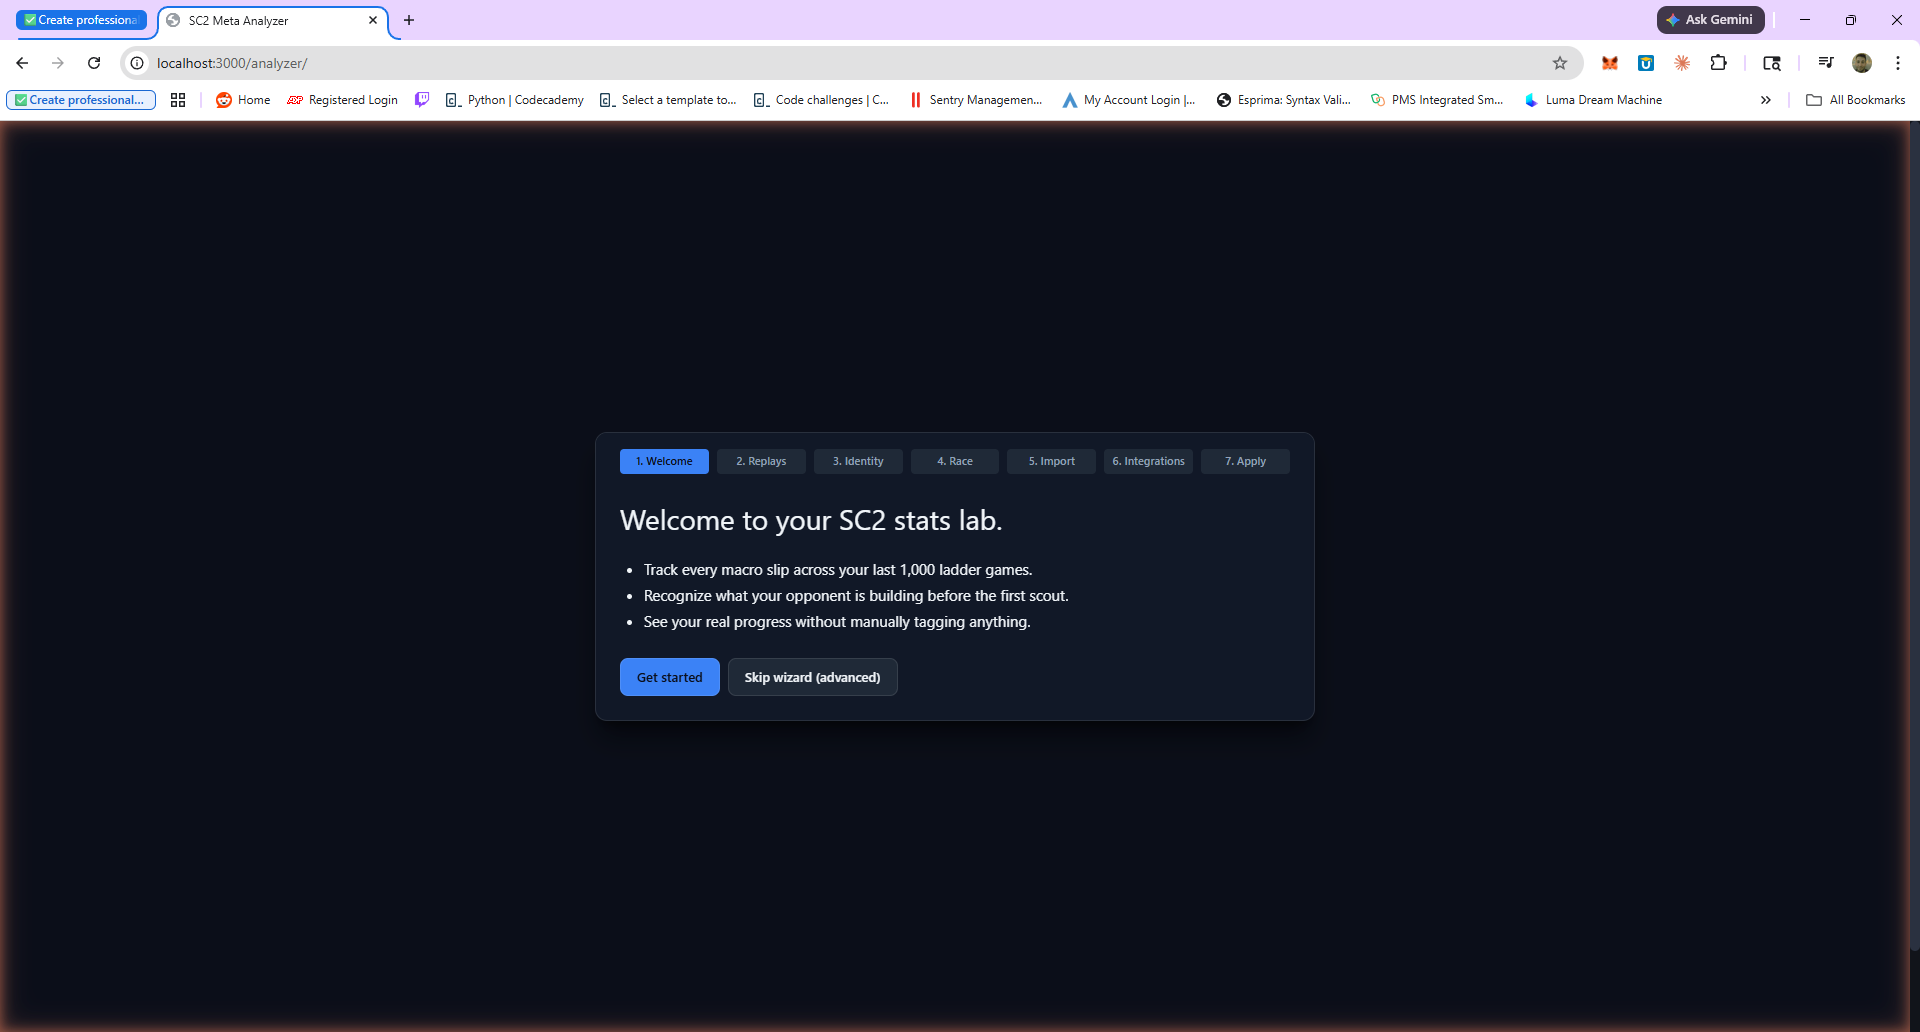
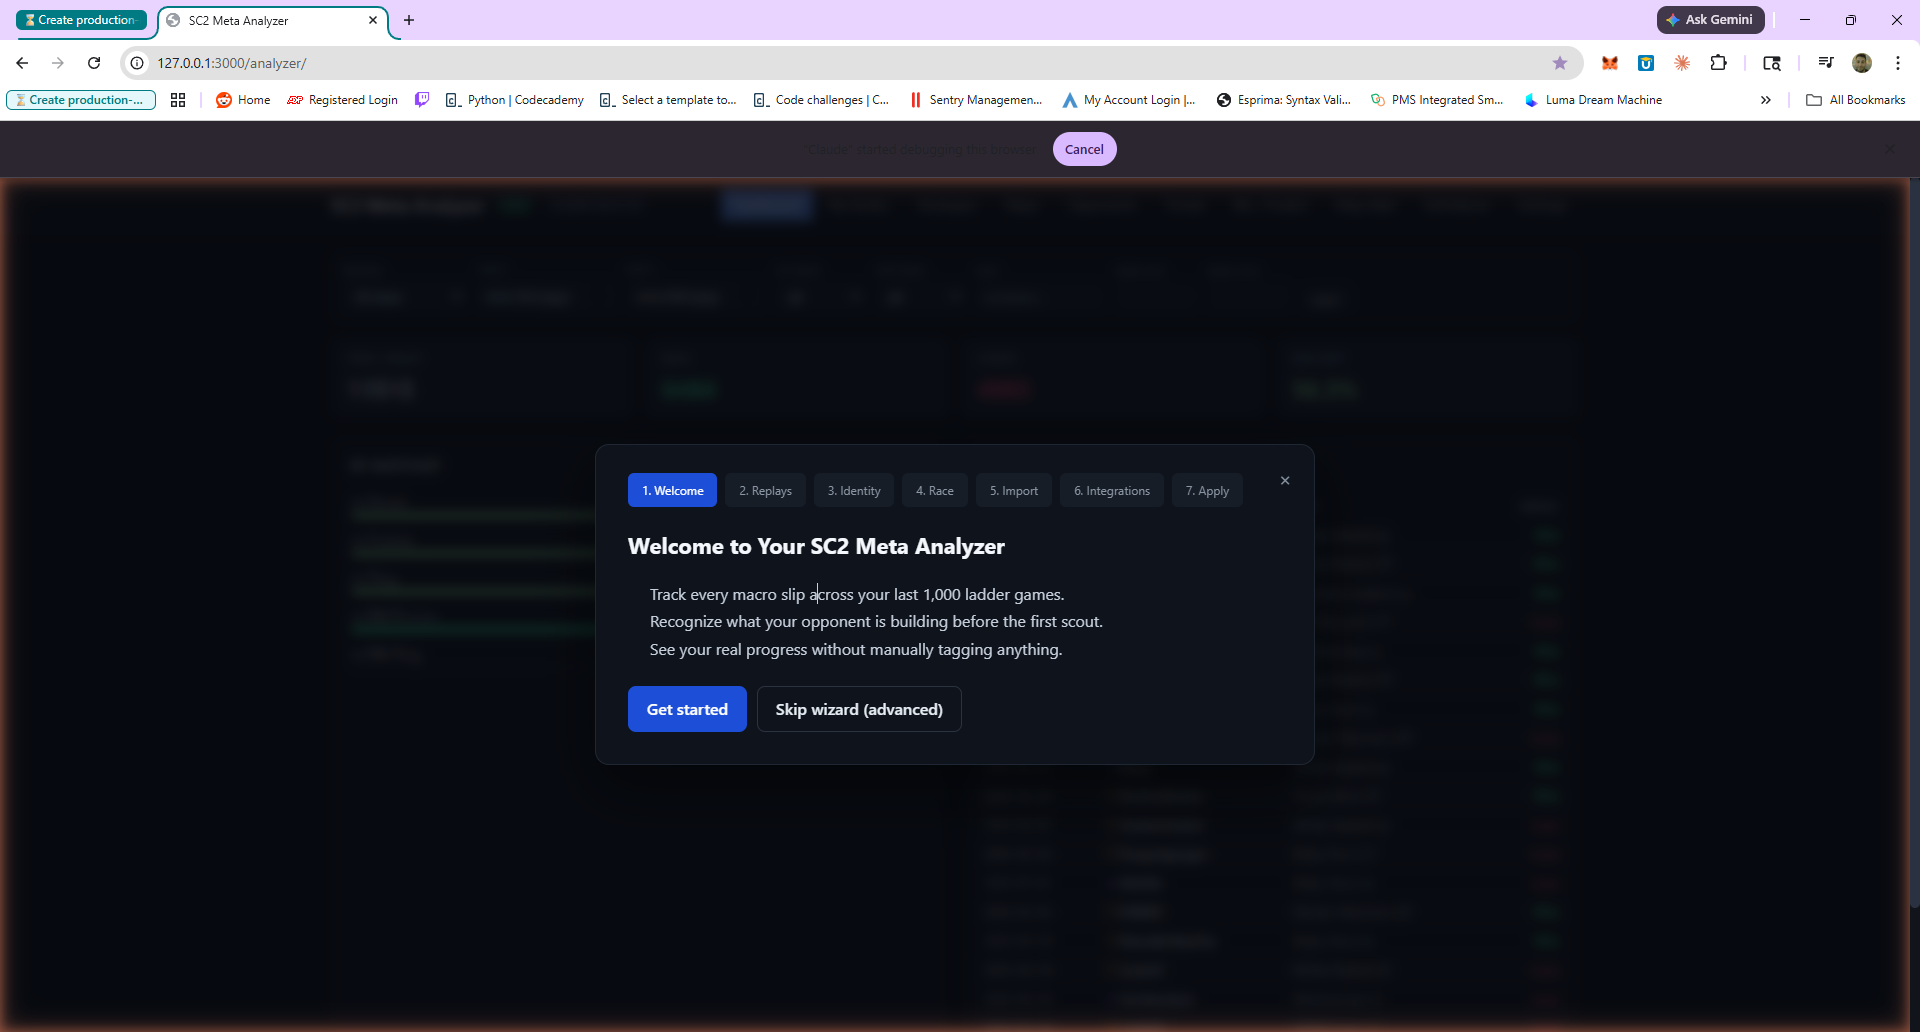
updates

diff --git a/README.md b/README.md
@@ -2,7 +2,7 @@
 
 # SC2 Meta Analyzer
 
-### Your personal StarCraft II stats lab — local, automatic, brutally honest.
+### Welcome to Your SC2 Meta Analyzer — local, automatic, brutally honest.
 
 `LIVE` &nbsp;•&nbsp; `Built-in Charts` &nbsp;•&nbsp; `Local-First` &nbsp;•&nbsp; `Stream-Ready`
 
@@ -123,7 +123,7 @@ The wizard has seven tabs across the top. The current step is highlighted **blue
   <img src="docs/images/01-welcome.png" alt="Onboarding — Welcome step" width="820"/>
 </p>
 
-The opening card states the three promises of the tool:
+The opening card reads **"Welcome to Your SC2 Meta Analyzer"** and states the three promises of the tool:
 
 - Track every macro slip across your last 1,000 ladder games.
 - Recognize what your opponent is building before the first scout.
@@ -614,7 +614,7 @@ The README references seven images under `docs/images/`. Save your screenshots w
 
 | Filename | Source screenshot |
 | --- | --- |
-| `docs/images/01-welcome.png` | Onboarding wizard — *Welcome to your SC2 stats lab* |
+| `docs/images/01-welcome.png` | Onboarding wizard — *Welcome to Your SC2 Meta Analyzer* |
 | `docs/images/02-replays.png` | Onboarding wizard — *Where are your replays?* |
 | `docs/images/03-dashboard.png` | Dashboard — KPI cards, By Matchup, Recent Games |
 | `docs/images/04-my-builds.png` | My Builds — per-opener W/L table |
